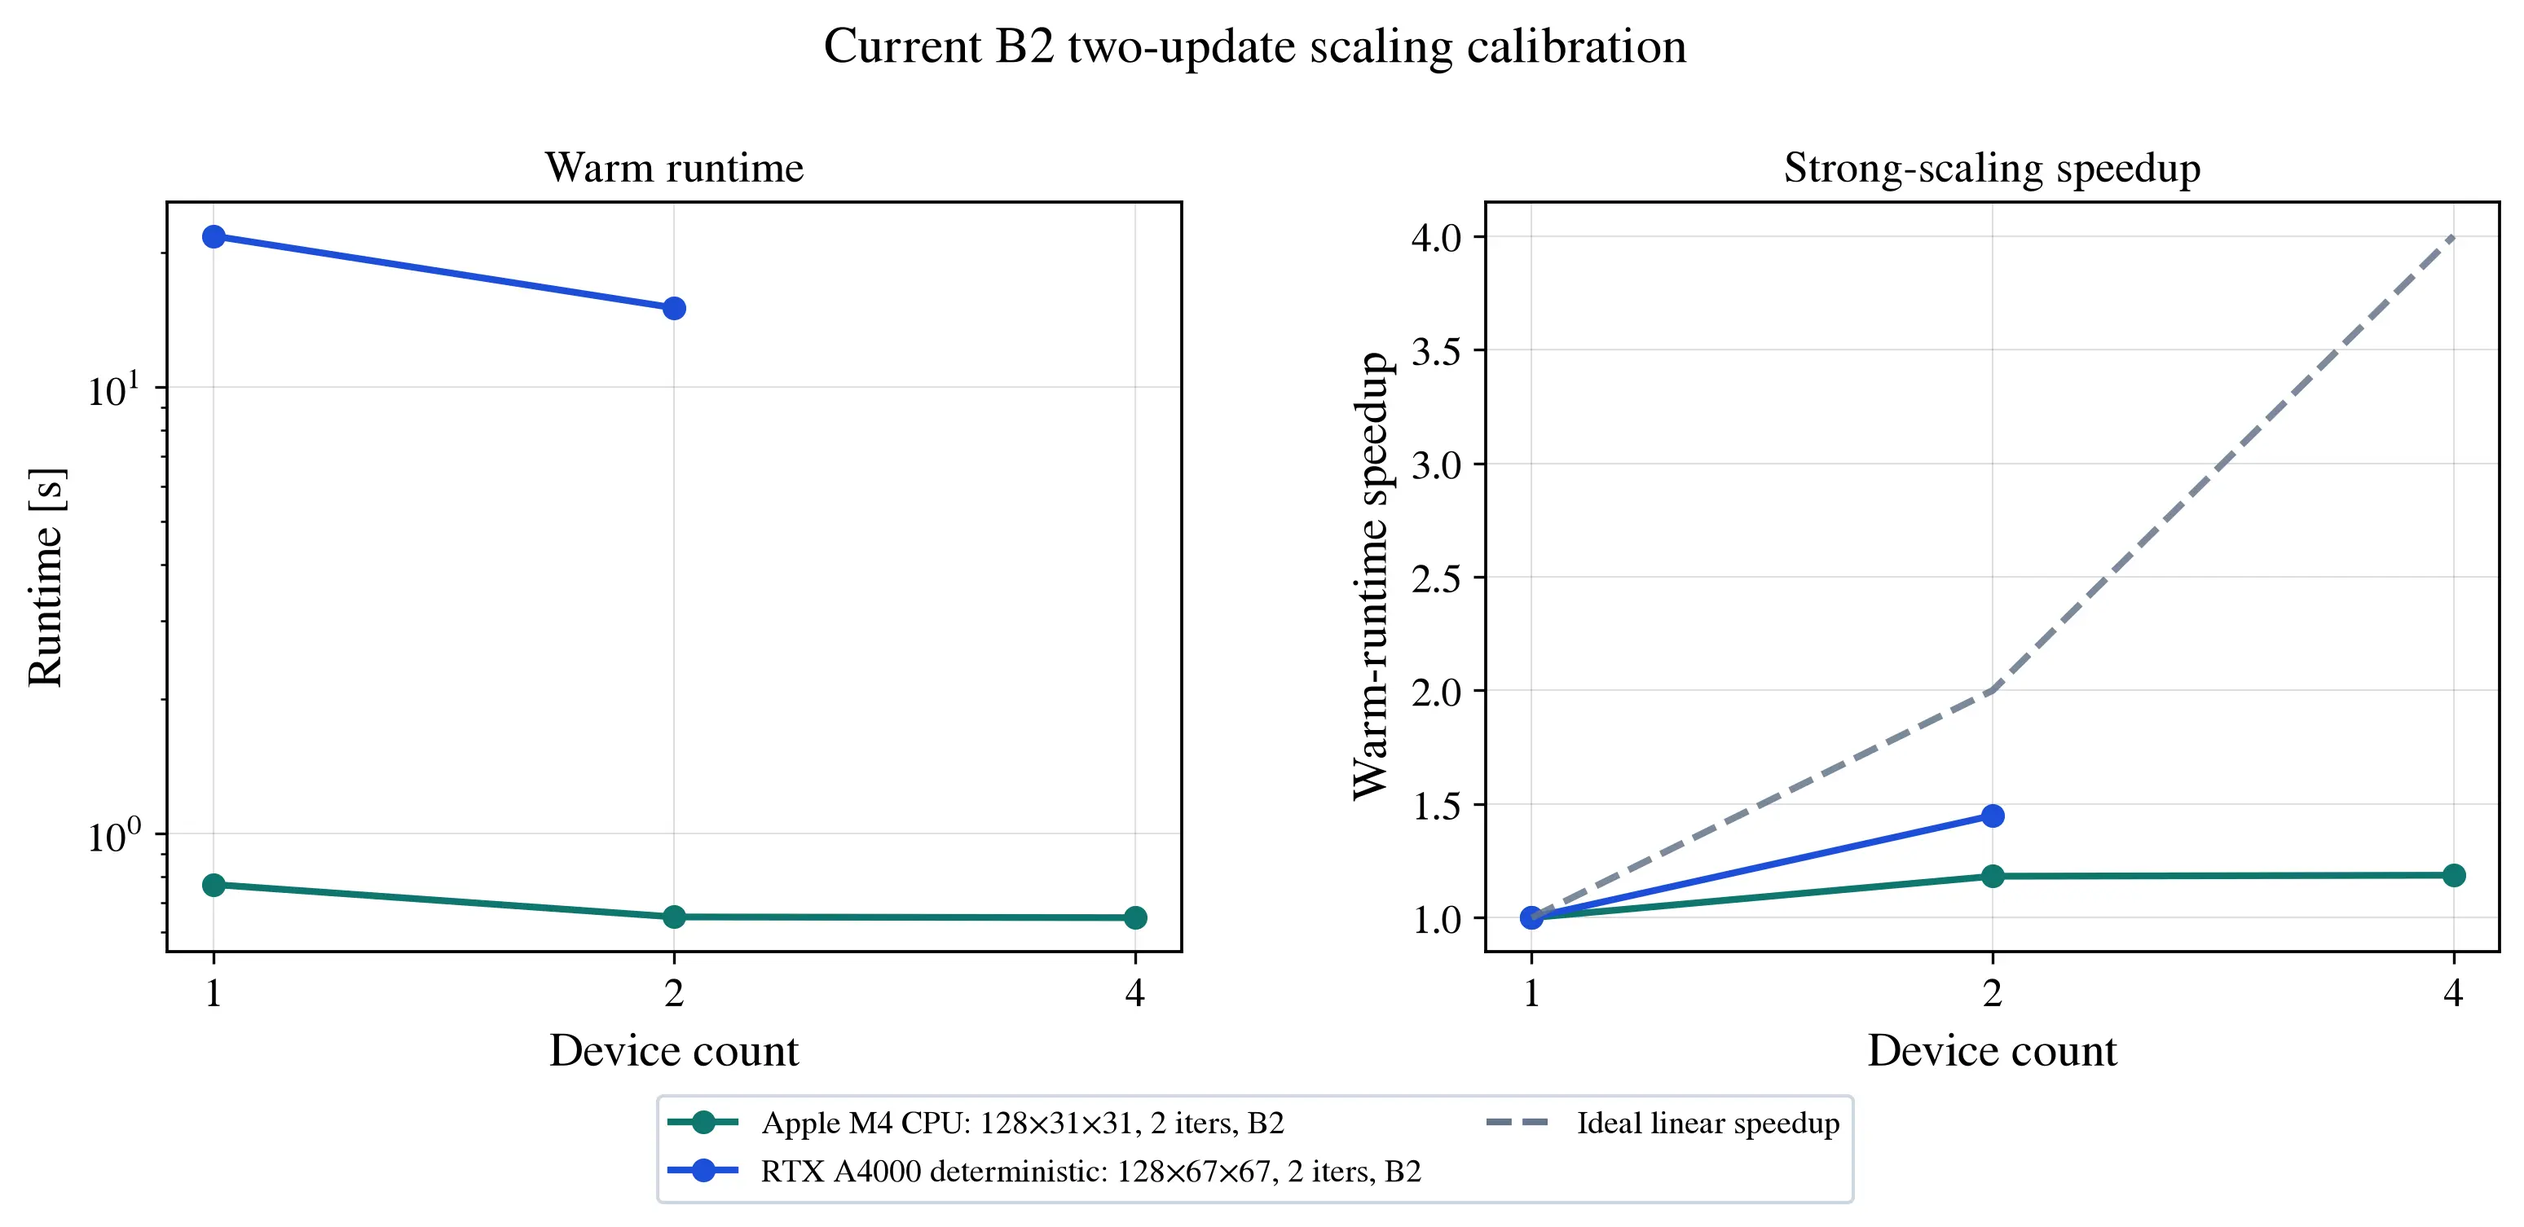
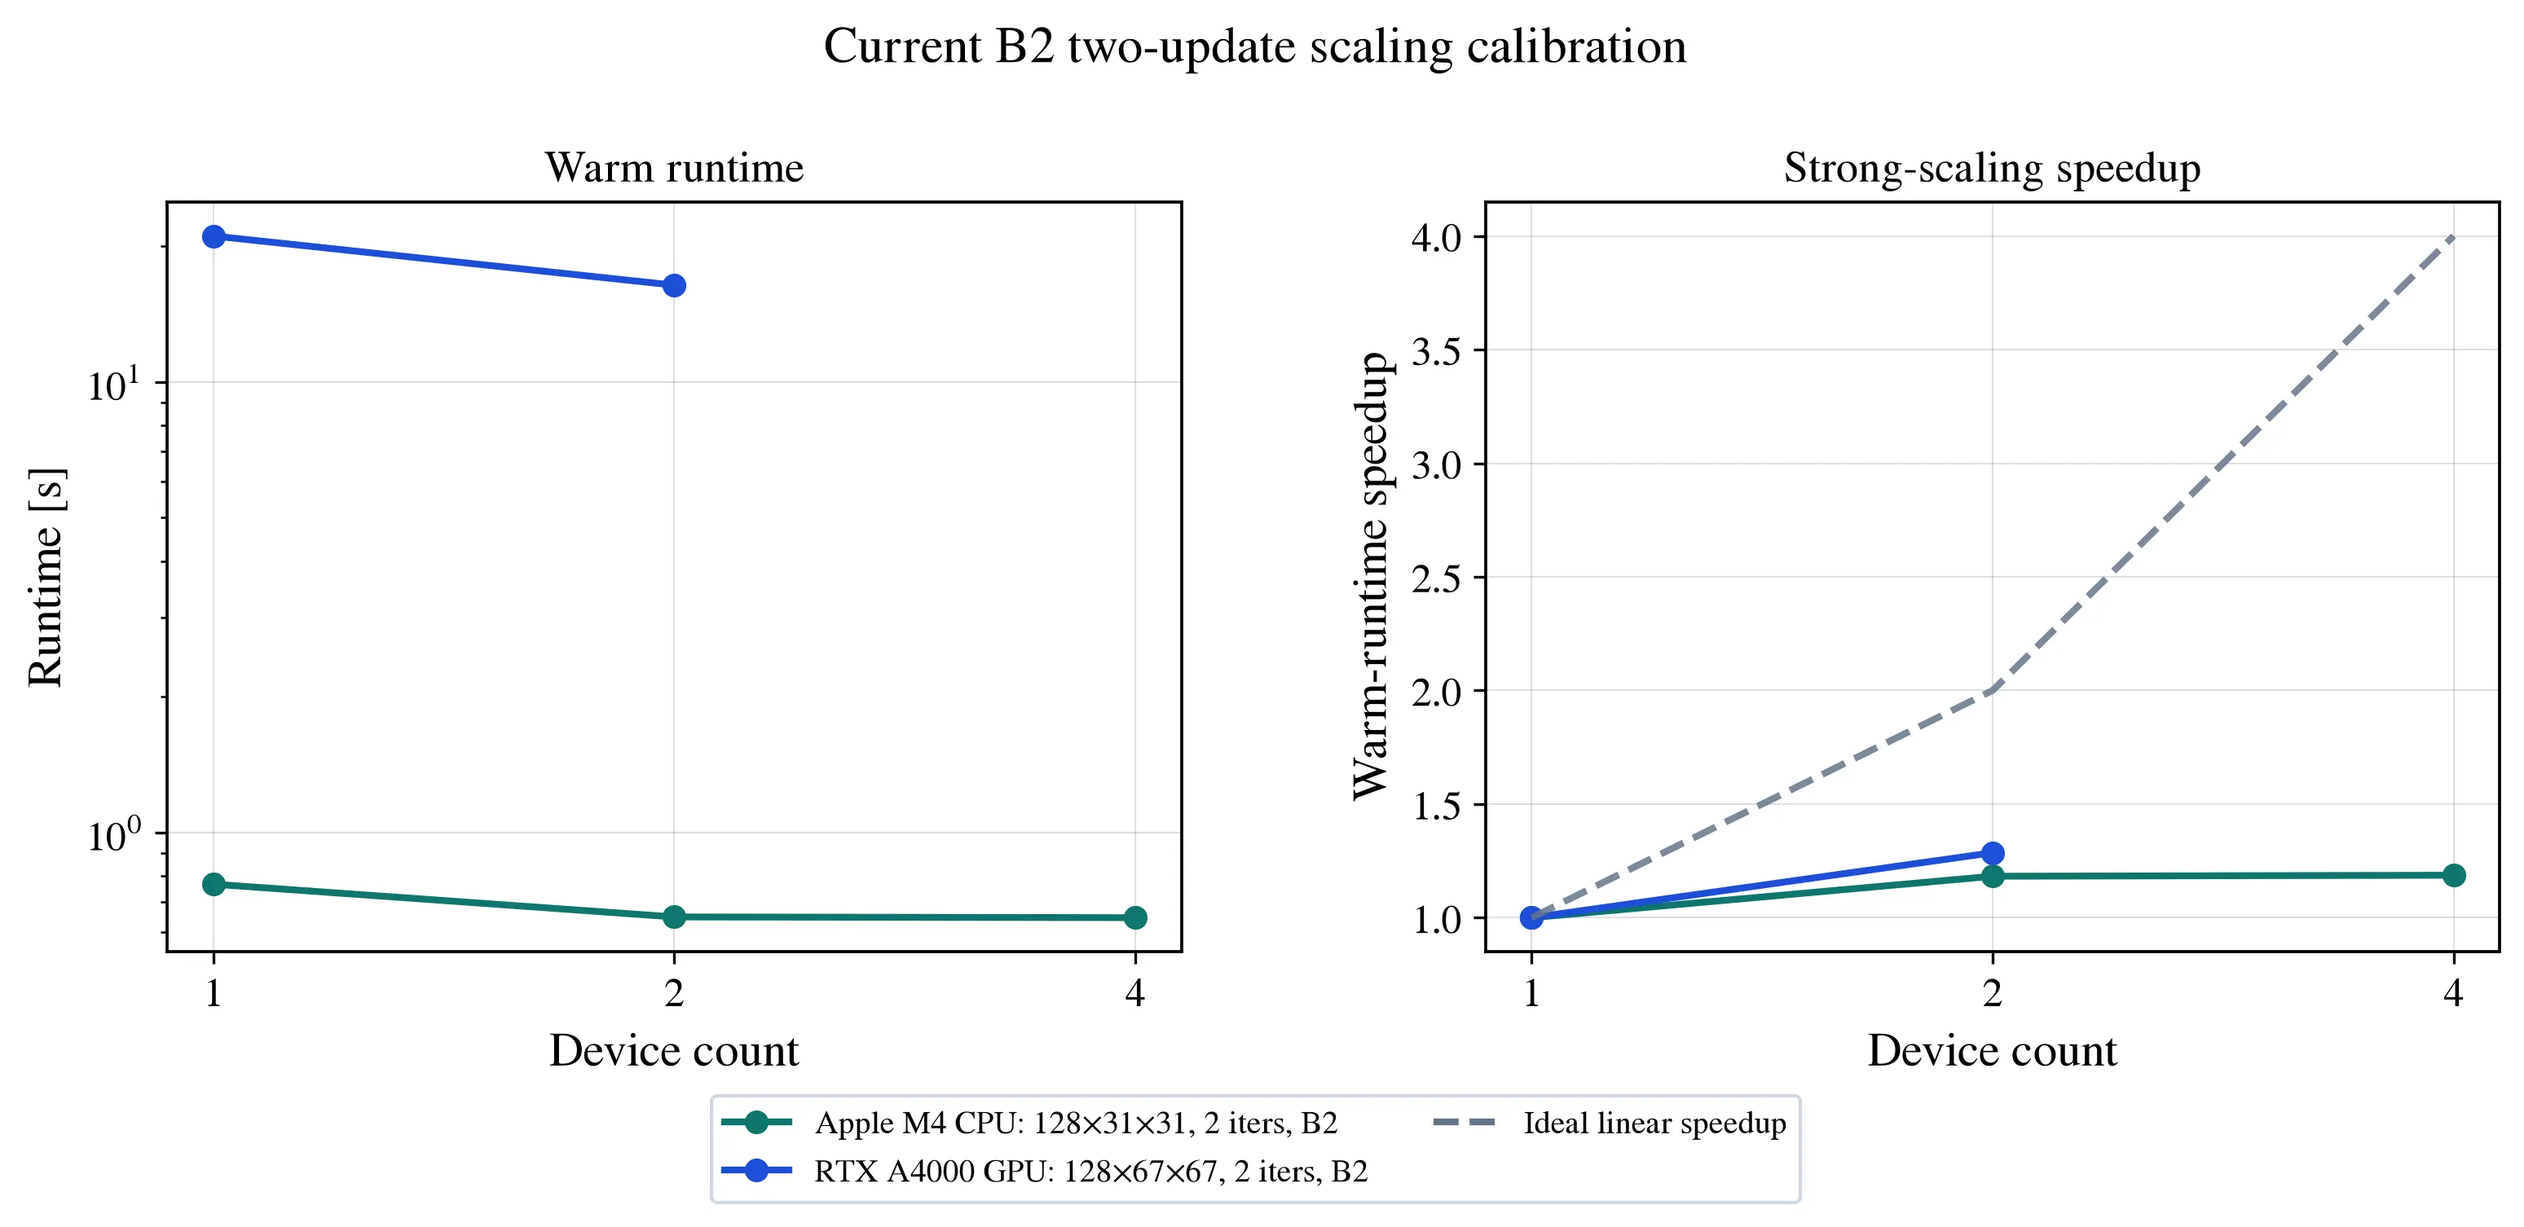
Accept bounded B2 GPU scaling

diff --git a/plan.md b/plan.md
@@ -1,6 +1,6 @@
 # LMX authoritative development plan
 
-Status: 2026-07-15. The current source/scaling baseline is `da8a53b`; the latest
+Status: 2026-07-15. The current source/scaling baseline is `3e53d8b`; the latest
 complete portable-gate artifact remains keyed to `6c63710`.
 The exact two-update LMX/FreeMHD B2 smoke, one-/two-/four-CPU-device equivalence,
 deterministic one-/two-GPU equivalence, and portable coverage gate are green.
@@ -88,7 +88,7 @@ large reusable artifacts go in checksummed releases.
 | Developed ducts | Hartmann, Shercliff, Hunt, and eight high-Ha rows pass analytical, conservation, and regression gates | preserve; do not generalize to arbitrary 3D flow |
 | FreeMHD closed channels | bounded Shercliff/Hunt observables pass the frozen 1% finite-grid gate | this is not full FreeMHD parity |
 | B1 ALEX pipe | retained-modal numerical evidence exists | exact-formulation parity remains open |
-| B2 ALEX square duct | conservative momentum, mixed axial boundaries, explicit stress, compact corrected flux, exact restart/CFL/stopping state, exact device equivalence, and current CPU plus deterministic GPU two-update calibrations have bounded gates | production parity, default-XLA GPU restart, and steady-production scaling remain open |
+| B2 ALEX square duct | conservative momentum, mixed axial boundaries, explicit stress, compact corrected flux, strict smoke replay, exact device equivalence, and current CPU/GPU two-update calibrations have bounded gates | production parity and steady-production scaling remain open |
 | Matched B2 harness | deterministic inputs, pinned sources, independent observers, and native two-update LMX/FreeMHD execution pass every frozen schema-3 smoke gate | production acceptance and mesh convergence remain open |
 | Differentiation | selected objectives pass finite-difference or independent-transpose checks | no blanket end-to-end claim for every workflow |
 | README/docs | concise feature-led README, corrected sourced comparison table, feature-specific visuals, and a seven-second Hunt loop | refresh B2/scaling panels only from accepted canonical records |
@@ -105,7 +105,7 @@ package and retiring the undocumented non-projection rectangular autodiff lane
 | maintained-core lines | 8,034 | below 8,000 after smoke cleanup | 8,100 |
 | test files / lines | 31 / 21,282 | no new file; below 21,000 after fixture consolidation | 32 / 21,300 |
 | maintenance scripts | 18 | 17 when the superseded SOLVAX acceptance freezer is retired | 18 |
-| tracked checkout | 3,509,563 bytes | do not increase without a user-facing need | 4,194,304 bytes |
+| tracked checkout | 3,508,676 bytes | do not increase without a user-facing need | 4,194,304 bytes |
 
 These ratchets must come from ownership deletion, shared helpers, or removal of
 superseded behavior—not unreadable formatting or arbitrary test merging.
@@ -222,8 +222,8 @@ vector, embedding, initialization, CFL, and relaxation layouts explicit and
 keeps compact flux components separate until explicit packing. Both device
 ladders have exact restart replay; the GPU pressure observable differs by at
 most `1.05e-14`. Deterministic GPU correctness uses
-`--xla_gpu_exclude_nondeterministic_ops`; default GPU mode remains a diagnostic
-performance lane because exact restart is not yet preserved. Compact
+`--xla_gpu_exclude_nondeterministic_ops`; default GPU mode is the separate
+timing lane. Compact
 records are `benchmarks/results/b2-{cpu,gpu}-device-equivalence-20260715.json`.
 
 An explicit one-device request now uses the same named-sharding kernels as the
@@ -236,19 +236,21 @@ beyond two devices. This is a two-update scaling calibration, not a steady
 production-speed claim. The compact record is
 `benchmarks/results/b2-cpu-strong-scaling-20260715.json`.
 
-The current `128 x 67 x 67` deterministic rung passes validation, placement,
-exact restart, and device equivalence on one and two RTX A4000 GPUs. Warm
-medians are 21.83 and 15.06 seconds with CV below 0.7%, a bounded 1.45x
-two-update speedup. The separate default-XLA one-GPU lane was stable at 21.20
-seconds but failed exact restart with a unit maximum difference, so its stop
-rule correctly prevented a two-GPU timing run. The compact record is
-`benchmarks/results/b2-gpu-scaling-calibration-20260715.json`; the shared host
-and failed fast lane preclude a publishable or production-speed claim.
+The current `128 x 67 x 67` default-XLA rung passes validation, placement,
+restart, and device equivalence on one and two RTX A4000 GPUs. Warm medians are
+21.09 and 16.40 seconds with CV below 1.9%, a bounded 1.29x two-update speedup.
+The stricter deterministic probe isolated `4.40e-6` relative reduction noise
+to corrected face flux; a direct-three versus restart-one-plus-two trajectory
+preserved every primary field exactly and reduced that difference to
+`6.25e-7`. The calibration therefore requires nonflux state within `1e-12`
+and flux within `1e-6` absolute and `1e-5` relative. The exact tiny harness
+keeps its stricter all-field gate. The compact record is
+`benchmarks/results/b2-gpu-scaling-calibration-20260715.json`; two updates and
+the shared host preclude a publishable or production-speed claim.
 
-Next identify the mismatching restart field on a tiny default-XLA GPU probe,
-repair or explicitly constrain that path, and rerun its one-GPU gate. Only a
-passing one-GPU replay may unlock the identical two-GPU fast lane; only then
-decide whether a larger grid is justified.
+Next profile one warm 1/2-GPU update and separate projection, electric, momentum,
+and halo costs. Only a measured compute/communication bottleneck may justify
+one larger bounded rung; steady-production scaling remains the promotion gate.
 
 Separate compilation from repeated timings and report uncertainty, memory,
 placement, speedup, and parallel efficiency. Independent-case multiprocessing
@@ -263,8 +265,8 @@ the physics-valid path.
 Exit: the full portable suite remains below ten minutes with no critical-path
 surprise, and the accepted B2 path retains equivalent observables plus useful,
 uncertainty-aware speedup on its target hardware. CPU correctness and bounded
-CPU scaling calibration are complete. Deterministic GPU correctness and
-calibration are complete; default-XLA and steady-production scaling remain open.
+CPU scaling calibration and bounded GPU state/flux calibration are complete;
+steady-production scaling remains open.
 
 ## Priority 3: canonical B2 validation
 

diff --git a/docs/performance.md b/docs/performance.md
@@ -4,7 +4,7 @@ LMX runs through JAX on CPUs and GPUs. Performance claims are accepted only for
 the real solver path with identical numerical results; visibility of multiple
 devices alone is not evidence of parallel execution.
 
-![Current B2 two-update CPU and deterministic GPU scaling calibration](_static/strong_scaling.webp)
+![Current B2 two-update CPU and GPU scaling calibration](_static/strong_scaling.webp)
 
 ## Current evidence
 
@@ -14,7 +14,7 @@ devices alone is not evidence of parallel execution.
 | exact B2 smoke | Apple M4, `8 x 7 x 7`, 1/2/4 forced CPU devices | pressure observable agrees within `5.3e-15`; closure and exact restart pass | production sharding correctness; too small for scaling claims |
 | exact B2 smoke | 1/2 RTX A4000 GPUs, `8 x 7 x 7`, deterministic XLA | pressure observable agrees within `1.1e-14`; fields, closure, and exact restart pass | production sharding correctness; shared host and tiny grid preclude scaling claims |
 | B2 scaling calibration | Apple M4, `128 x 31 x 31`, 1/2/4 forced CPU devices | 0.768/0.649/0.647 s; 1.18x/1.19x speedup; exact restart and device equivalence pass | current real solver, two fixed updates; not a steady-production claim |
-| B2 scaling calibration | 1/2 RTX A4000 GPUs, `128 x 67 x 67`, deterministic XLA | 21.83/15.06 s; 1.45x speedup; CV below 0.7%, exact restart and device equivalence pass | current real solver, two fixed updates; shared-host calibration only |
+| B2 scaling calibration | 1/2 RTX A4000 GPUs, `128 x 67 x 67`, default XLA | 21.09/16.40 s; 1.29x speedup; CV below 1.9%, restart and device equivalence pass | current real solver, two fixed updates; shared-host calibration only |
 | SOLVAX PCG equivalence | Apple M4 CPU and RTX A4000 GPU | 0.8.2 forward, gradient, transpose, memory, and Hartmann gates pass; one-shot GPU warm ratio is 1.184 | timing refresh remains open |
 | sharded 3D operator | Apple M4, `516 x 32 x 32` | 1.16x on 2 cores, 1.28x on 4, 0.93x on 6 | actual shard placement verified; surrogate only |
 | B2 axial sharding | 2 x RTX A4000, `102 x 77 x 77` | 36.96 s on one GPU, 22.23 s on two | diagnostic 1.66x result for superseded formulation |
@@ -27,9 +27,11 @@ devices alone is not evidence of parallel execution.
 The exact CPU/GPU results and fixed-size calibrations are recorded in
 `benchmarks/results/b2-{cpu,gpu}-device-equivalence-20260715.json` and
 `benchmarks/results/b2-{cpu-strong-scaling,gpu-scaling-calibration}-20260715.json`.
-The default-XLA one-GPU diagnostic had a stable 21.20-second warm median but
-failed exact restart (`restart_max_abs = 1`), so the two-GPU fast lane did not
-run and GPU production scaling remains open. The older,
+The large deterministic probe isolated restart variation to corrected face
+flux (`4.40e-6` relative). A three-update trajectory preserved every primary
+field exactly and reduced the flux difference to `6.25e-7`, within the frozen
+`1e-5` calibration gate. The tiny canonical smoke retains its strict all-field
+replay gate. GPU steady-production scaling remains open. The older,
 larger GPU B2 result passes its historical two-device equivalence gate, but
 the measured path omits canonical inertia and uses stationwise flow forcing.
 It therefore does not establish scaling for the matched formulation. The B1
@@ -249,10 +251,10 @@ than silently reused.
 
 ## Next performance work
 
-1. Isolate the default-XLA B2 restart mismatch on a tiny GPU probe.
-2. Rerun the bounded default-XLA 1/2-GPU ladder only after one-GPU replay passes.
+1. Profile projection, electric, momentum, and halo costs on the current 1/2-GPU rung.
+2. Run one larger bounded rung only if the profile predicts useful scaling.
 3. Close B1/B2 mesh and experimental-observable acceptance.
-4. Add larger or four-GPU points only after the current fast lane is accepted.
+4. Add four-GPU points only with suitable hardware and a steady-production case.
 
 See [Testing](testing.md) for the portable gate and [Benchmark matrix](benchmark_matrix.md)
 for physics promotion criteria.

diff --git a/docs/fringing.md b/docs/fringing.md
@@ -85,7 +85,7 @@ The retained specifications and references are:
 | Case | Geometry | Reference | Status |
 |---|---|---|---|
 | B1 | conducting circular pipe | `alex-b1-pipe.csv` | pressure solver accepted; experimental observable open |
-| B2 | conducting square duct | `alex-b2-square.csv` | research-stage; deterministic 1/2-GPU calibration passes, fast/steady scaling open |
+| B2 | conducting square duct | `alex-b2-square.csv` | research-stage; bounded 1/2-GPU calibration passes, steady scaling open |
 
 Files live in `benchmarks/specs/` and `benchmarks/references/`. Construction and
 observable extraction are implemented in `lmx/benchmarks.py`.
@@ -108,8 +108,8 @@ large solve/restart gate passed. No B1 environment switch is required.
 
 B2 supports named axial sharding. The canonical tiny path has equivalent
 observables and exact restart on one and two deterministic GPUs. The current
-`128 x 67 x 67` two-update calibration reaches 1.45x on two deterministic GPUs;
-default-XLA replay still fails, so fast and production scaling remain open. A superseded
+`128 x 67 x 67` two-update calibration reaches 1.29x on two GPUs with exact
+primary-state replay and bounded face-flux noise. Production scaling remains open. A superseded
 formulation's fixed-size timing improved from 36.96 s to 22.23 s; this is not a
 current scaling claim. The fine-checkpoint transverse Galerkin
 gate separately reduces electric iterations 5.18x and matched two-update time

diff --git a/docs/benchmark_matrix.md b/docs/benchmark_matrix.md
@@ -12,7 +12,7 @@ records live in `benchmarks/`; large fields and movies live in releases.
 | A2 Shercliff/Hunt ducts | analytical profiles and Samper Table I | all eight frozen rows pass | verified |
 | A3 FreeMHD closed channel | audited inputs and four mesh levels | finest finite-grid observables below 1% | verified for frozen cases |
 | B1 ALEX pipe fringe | digitized pressure data and 3D solver | conservation passes; steady pressure gate open | research-stage |
-| B2 ALEX square fringe | digitized pressure data and 3D solver | canonical smoke and deterministic 1/2-GPU calibration pass; production parity and fast/steady scaling remain open | research-stage |
+| B2 ALEX square fringe | digitized pressure data and 3D solver | canonical smoke and bounded 1/2-GPU calibration pass; production parity and steady scaling remain open | research-stage |
 | Q2D turbulence | reduced-model and adapter checks | independent turbulent parity required | staged |
 | Magnetic obstacle | qualitative topology checks | quantitative experimental parity required | staged |
 

diff --git a/docs/validation_report.md b/docs/validation_report.md
@@ -42,9 +42,9 @@ are authoritative when prose and results differ.
   smoke gate, and its production path has exact restart plus equivalent
   observables on 1/2/4 CPU devices and 1/2 deterministic GPUs. These tiny runs
   establish orchestration and sharding correctness. A current `128 x 67 x 67`
-  deterministic two-GPU calibration reaches 1.45x with exact replay and
-  equivalent observables; the default-XLA replay gate fails, so this is not
-  production parity or fast/steady scaling. The fine pressure curve misses every frozen ALEX
+  two-GPU calibration reaches 1.29x with equivalent observables and bounded
+  face-flux replay; a three-update trajectory preserves all primary fields
+  exactly. This is not production parity or steady scaling. The fine pressure curve misses every frozen ALEX
   literature-error limit. A checksummed
   Maxwell-consistent coarse-field diagnostic improves peak underprediction from
   15.6% to 8.2% but worsens the plateau-sensitive aggregate error, so it is not

diff --git a/README.md b/README.md
@@ -111,11 +111,11 @@ These visuals demonstrate implemented workflows, not quantitative validation.
 
 ## Scale on CPUs and GPUs
 
-![Current B2 two-update CPU and deterministic GPU scaling calibration](docs/_static/strong_scaling.webp)
+![Current B2 two-update CPU and GPU scaling calibration](docs/_static/strong_scaling.webp)
 
 The exact B2 smoke agrees on 1/2/4 CPU devices and 1/2 deterministic GPUs. A
-current two-update calibration reaches 1.19× on four CPU devices and 1.45× on
-two GPUs. Default-XLA restart and steady-production scaling remain open.
+current two-update calibration reaches 1.19× on four CPU devices and 1.29× on
+two GPUs. Steady-production scaling remains open.
 [Protocol and results →](docs/performance.md)
 
 ## Quality and citation

diff --git a/docs/media.md b/docs/media.md
@@ -11,10 +11,10 @@ The package wheel contains no media.
 
 ## Tracked web set
 
-Six files in `docs/_static/` total 413,409 bytes: duct profiles, FreeMHD parity,
+Six files in `docs/_static/` total 411,169 bytes: duct profiles, FreeMHD parity,
 the B1 comparison, current CPU/GPU scaling, and the Hunt movie/poster pair. The
-67,366-byte scaling WebP has SHA-256
[1 lines of base64/hex data omitted]
+65,126-byte scaling WebP has SHA-256
[1 lines of base64/hex data omitted]
 
 The 35,171-byte Hunt H.264 loop (SHA-256
[1 lines of base64/hex data omitted]
